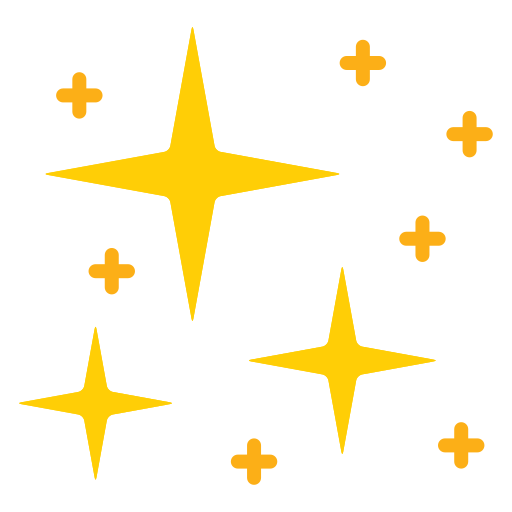
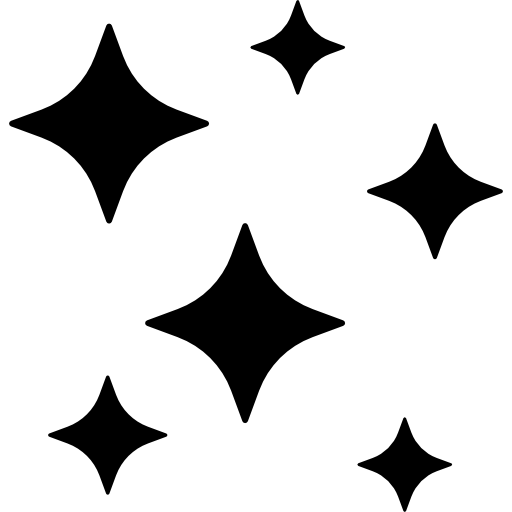
replace stars

diff --git a/app/page.tsx b/app/page.tsx
@@ -46,59 +46,59 @@ export default function App() {
 
         <ParallaxLayer offset={1} speed={0.8} style={{ opacity: 0.1 }}>
           <img
-            src={url("stars.png", true)}
+            src={url("stars.png")}
             style={{ display: "block", width: "20%", marginLeft: "55%" }}
           />
           <img
-            src={url("stars.png", true)}
+            src={url("stars.png")}
             style={{ display: "block", width: "10%", marginLeft: "15%" }}
           />
         </ParallaxLayer>
 
         <ParallaxLayer offset={1.75} speed={0.5} style={{ opacity: 0.1 }}>
           <img
-            src={url("stars.png", true)}
+            src={url("stars.png")}
             style={{ display: "block", width: "20%", marginLeft: "70%" }}
           />
           <img
-            src={url("stars.png", true)}
+            src={url("stars.png")}
             style={{ display: "block", width: "20%", marginLeft: "40%" }}
           />
         </ParallaxLayer>
 
         <ParallaxLayer offset={1} speed={0.2} style={{ opacity: 0.2 }}>
           <img
-            src={url("stars.png", true)}
+            src={url("stars.png")}
             style={{ display: "block", width: "10%", marginLeft: "10%" }}
           />
           <img
-            src={url("stars.png", true)}
+            src={url("stars.png")}
             style={{ display: "block", width: "20%", marginLeft: "75%" }}
           />
         </ParallaxLayer>
 
         <ParallaxLayer offset={1.6} speed={-0.1} style={{ opacity: 0.4 }}>
           <img
-            src={url("stars.png", true)}
+            src={url("stars.png")}
             style={{ display: "block", width: "20%", marginLeft: "60%" }}
           />
           <img
-            src={url("stars.png", true)}
+            src={url("stars.png")}
             style={{ display: "block", width: "25%", marginLeft: "30%" }}
           />
           <img
-            src={url("stars.png", true)}
+            src={url("stars.png")}
             style={{ display: "block", width: "10%", marginLeft: "80%" }}
           />
         </ParallaxLayer>
 
         <ParallaxLayer offset={2.6} speed={0.4} style={{ opacity: 0.6 }}>
           <img
-            src={url("stars.png", true)}
+            src={url("stars.png")}
             style={{ display: "block", width: "20%", marginLeft: "5%" }}
           />
           <img
-            src={url("stars.png", true)}
+            src={url("stars.png")}
             style={{ display: "block", width: "15%", marginLeft: "75%" }}
           />
         </ParallaxLayer>
